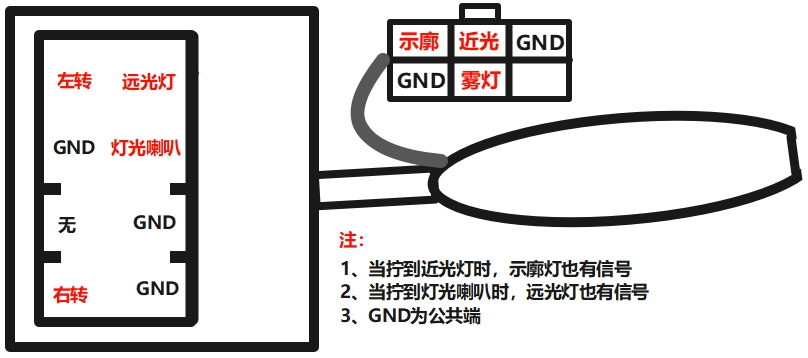
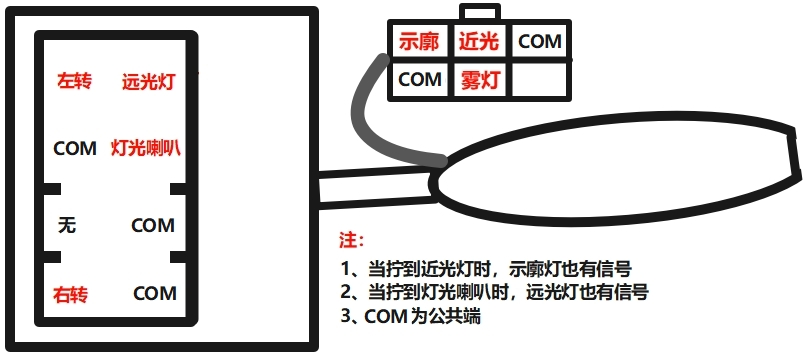
[Add] 添加五菱宏光雨刮拨杆接线提示功能及相关资源 & 修复图片描述：公共端GND改为COM

diff --git a/Qt6/ets2keybinderwizard.cpp b/Qt6/ets2keybinderwizard.cpp
@@ -1325,7 +1325,7 @@ void ETS2KeyBinderWizard::on_pushButton_23_clicked() {
 // 接线提示
 void ETS2KeyBinderWizard::on_pushButton_17_clicked() {
     QLabel* labelImage = new QLabel(this, Qt::Dialog | Qt::WindowCloseButtonHint);
-    labelImage->setWindowTitle("接线提示");
+    labelImage->setWindowTitle("接线提示-五菱宏光-转向灯拨杆");
 
     QString imagePath = ":/ETS2_KeyBinder/ConnectTip_WuLing.jpg";
 
@@ -1344,3 +1344,26 @@ void ETS2KeyBinderWizard::on_pushButton_17_clicked() {
     }
     labelImage->show();
 }
+
+void ETS2KeyBinderWizard::on_pushButton_25_clicked() {
+    QLabel* labelImage = new QLabel(this, Qt::Dialog | Qt::WindowCloseButtonHint);
+    labelImage->setWindowTitle("接线提示-五菱宏光-雨刮拨杆");
+
+    QString imagePath = ":/ETS2_KeyBinder/ConnectTip_WuLing_Wipers.jpg";
+
+    QFileInfo file(imagePath);
+
+    if (file.exists()) {
+        QImage image;
+        image.load(imagePath);
+
+               // Label跟随图片大小变化
+        labelImage->resize(QSize(image.width(), image.height()));
+        labelImage->setPixmap(QPixmap::fromImage(image));
+
+    } else {
+        qDebug() << "未找到该图片";
+    }
+    labelImage->show();
+}
+

diff --git a/Qt6/ets2keybinderwizard.h b/Qt6/ets2keybinderwizard.h
@@ -120,6 +120,8 @@ private slots:
 
     void on_pushButton_24_clicked();
 
+    void on_pushButton_25_clicked();
+
 private:
     Ui::ETS2KeyBinderWizard* ui;
 
